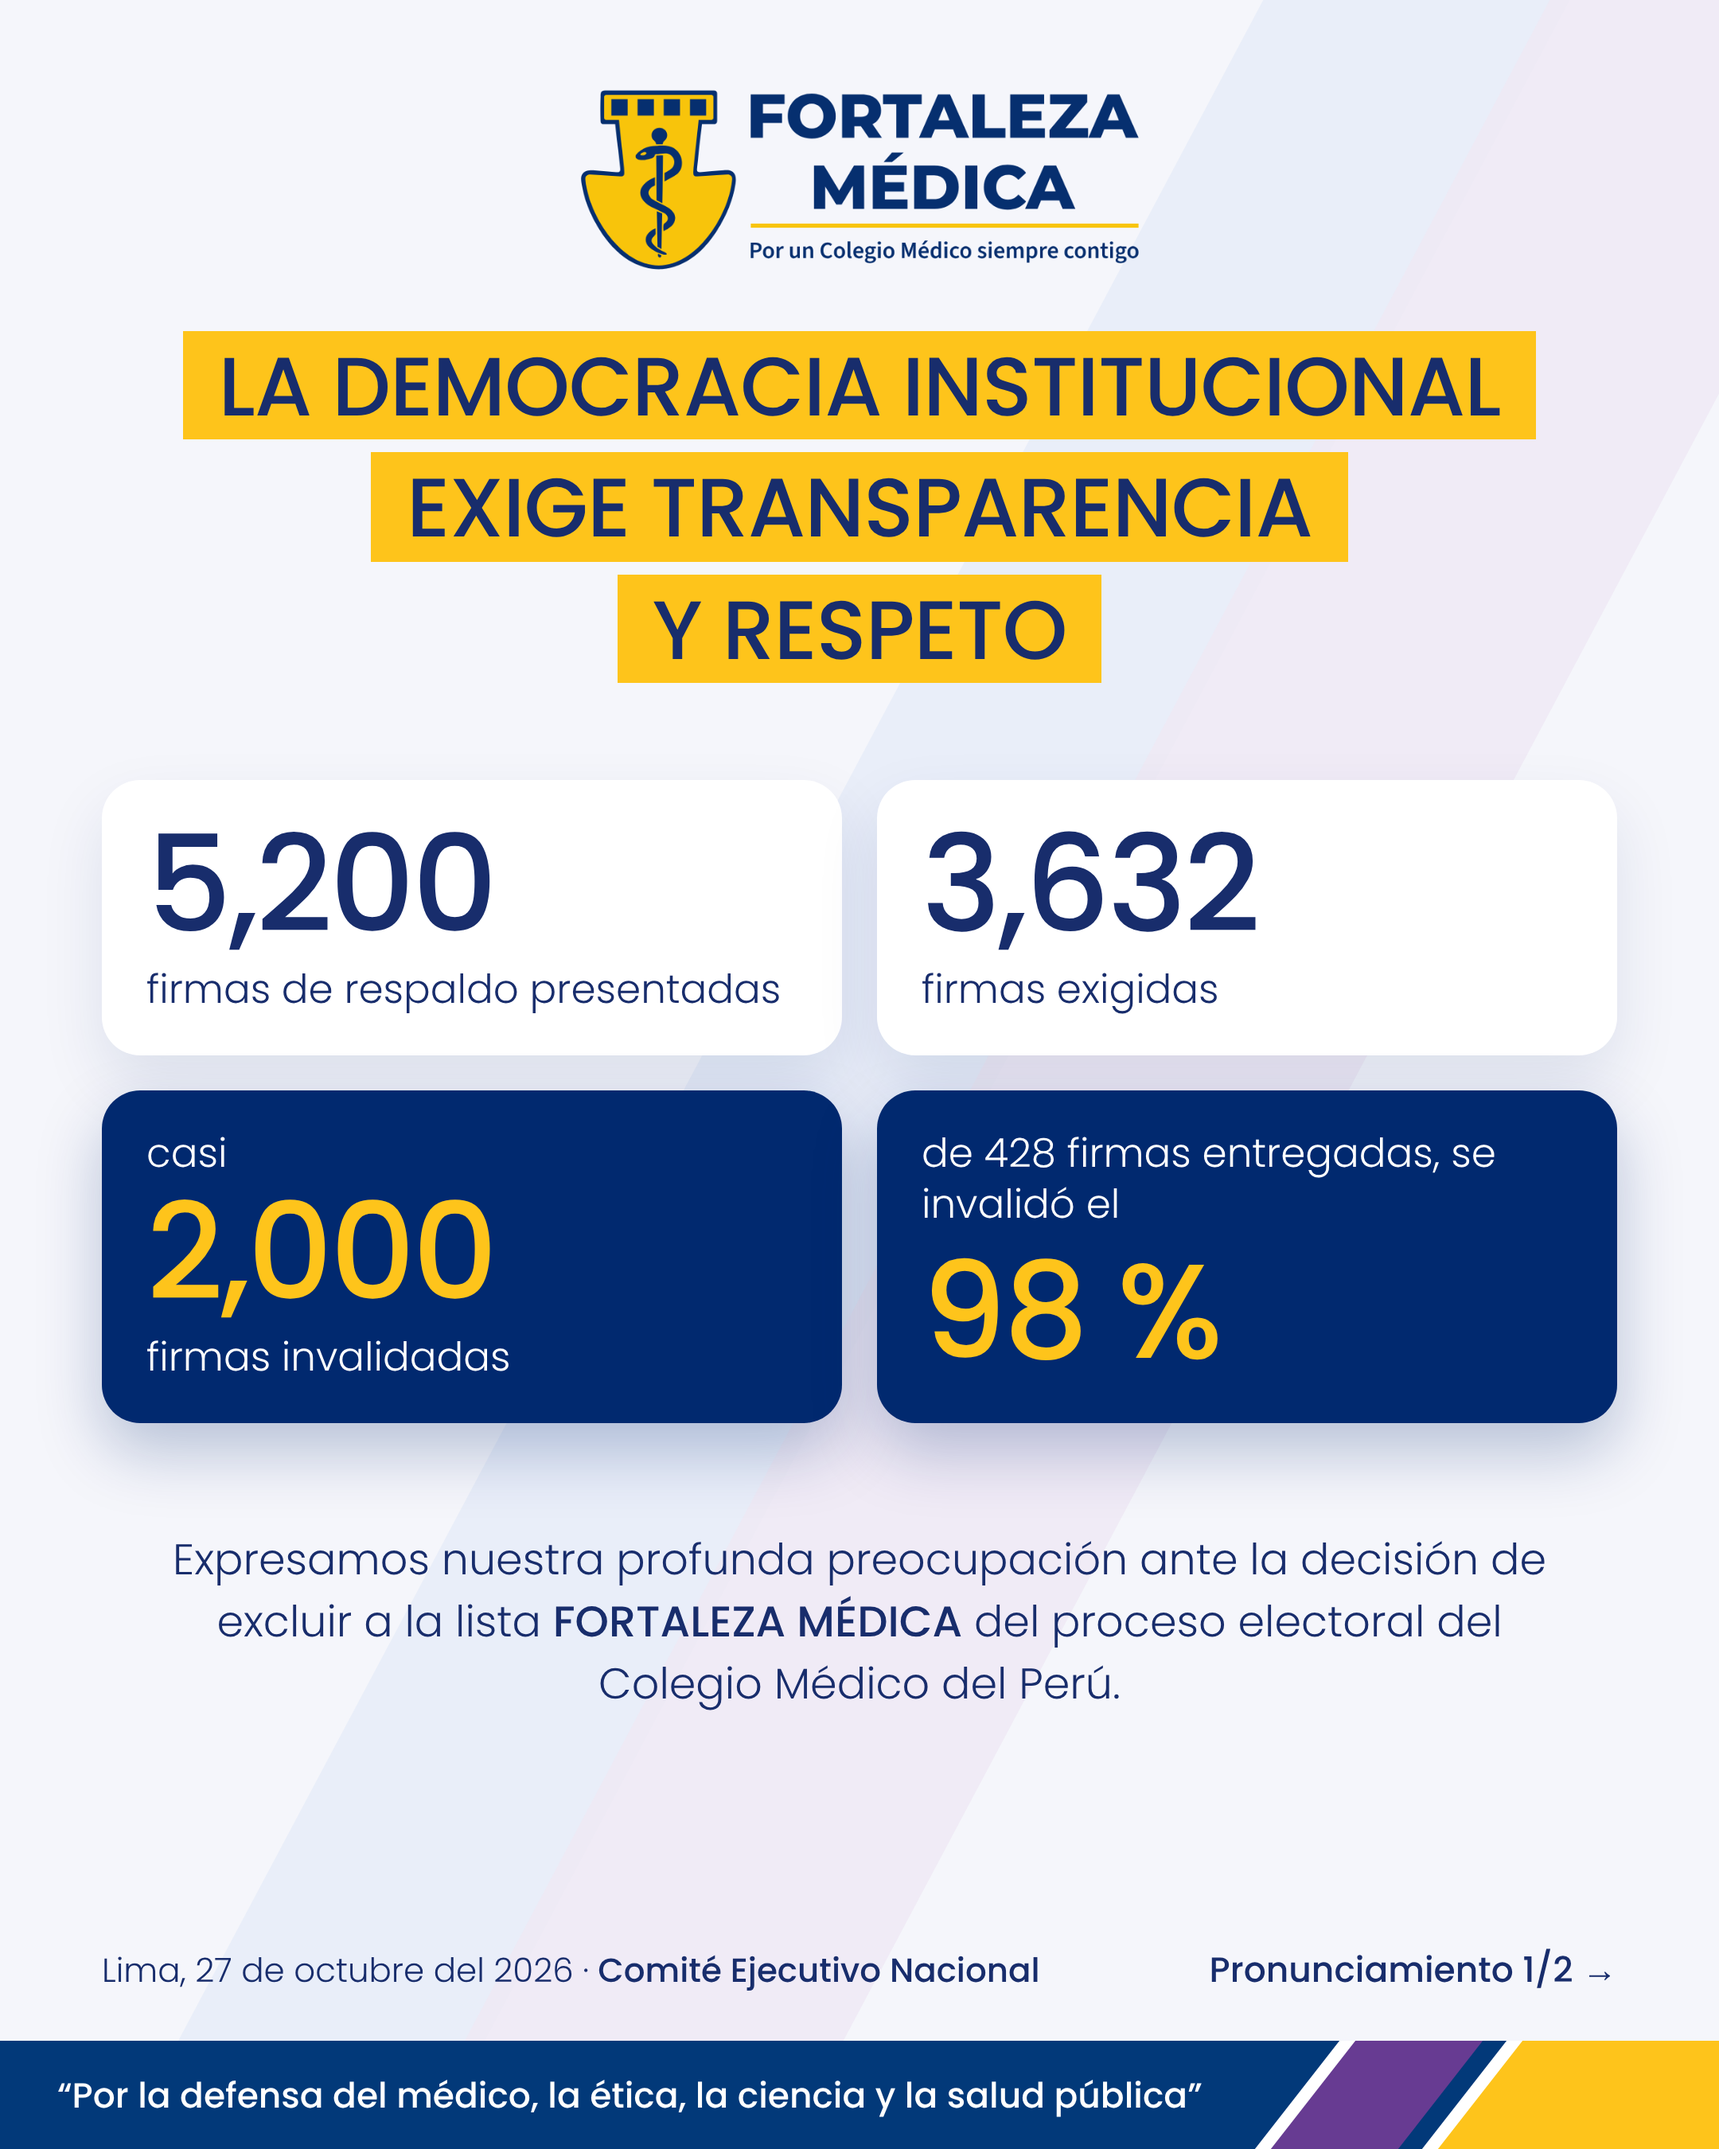
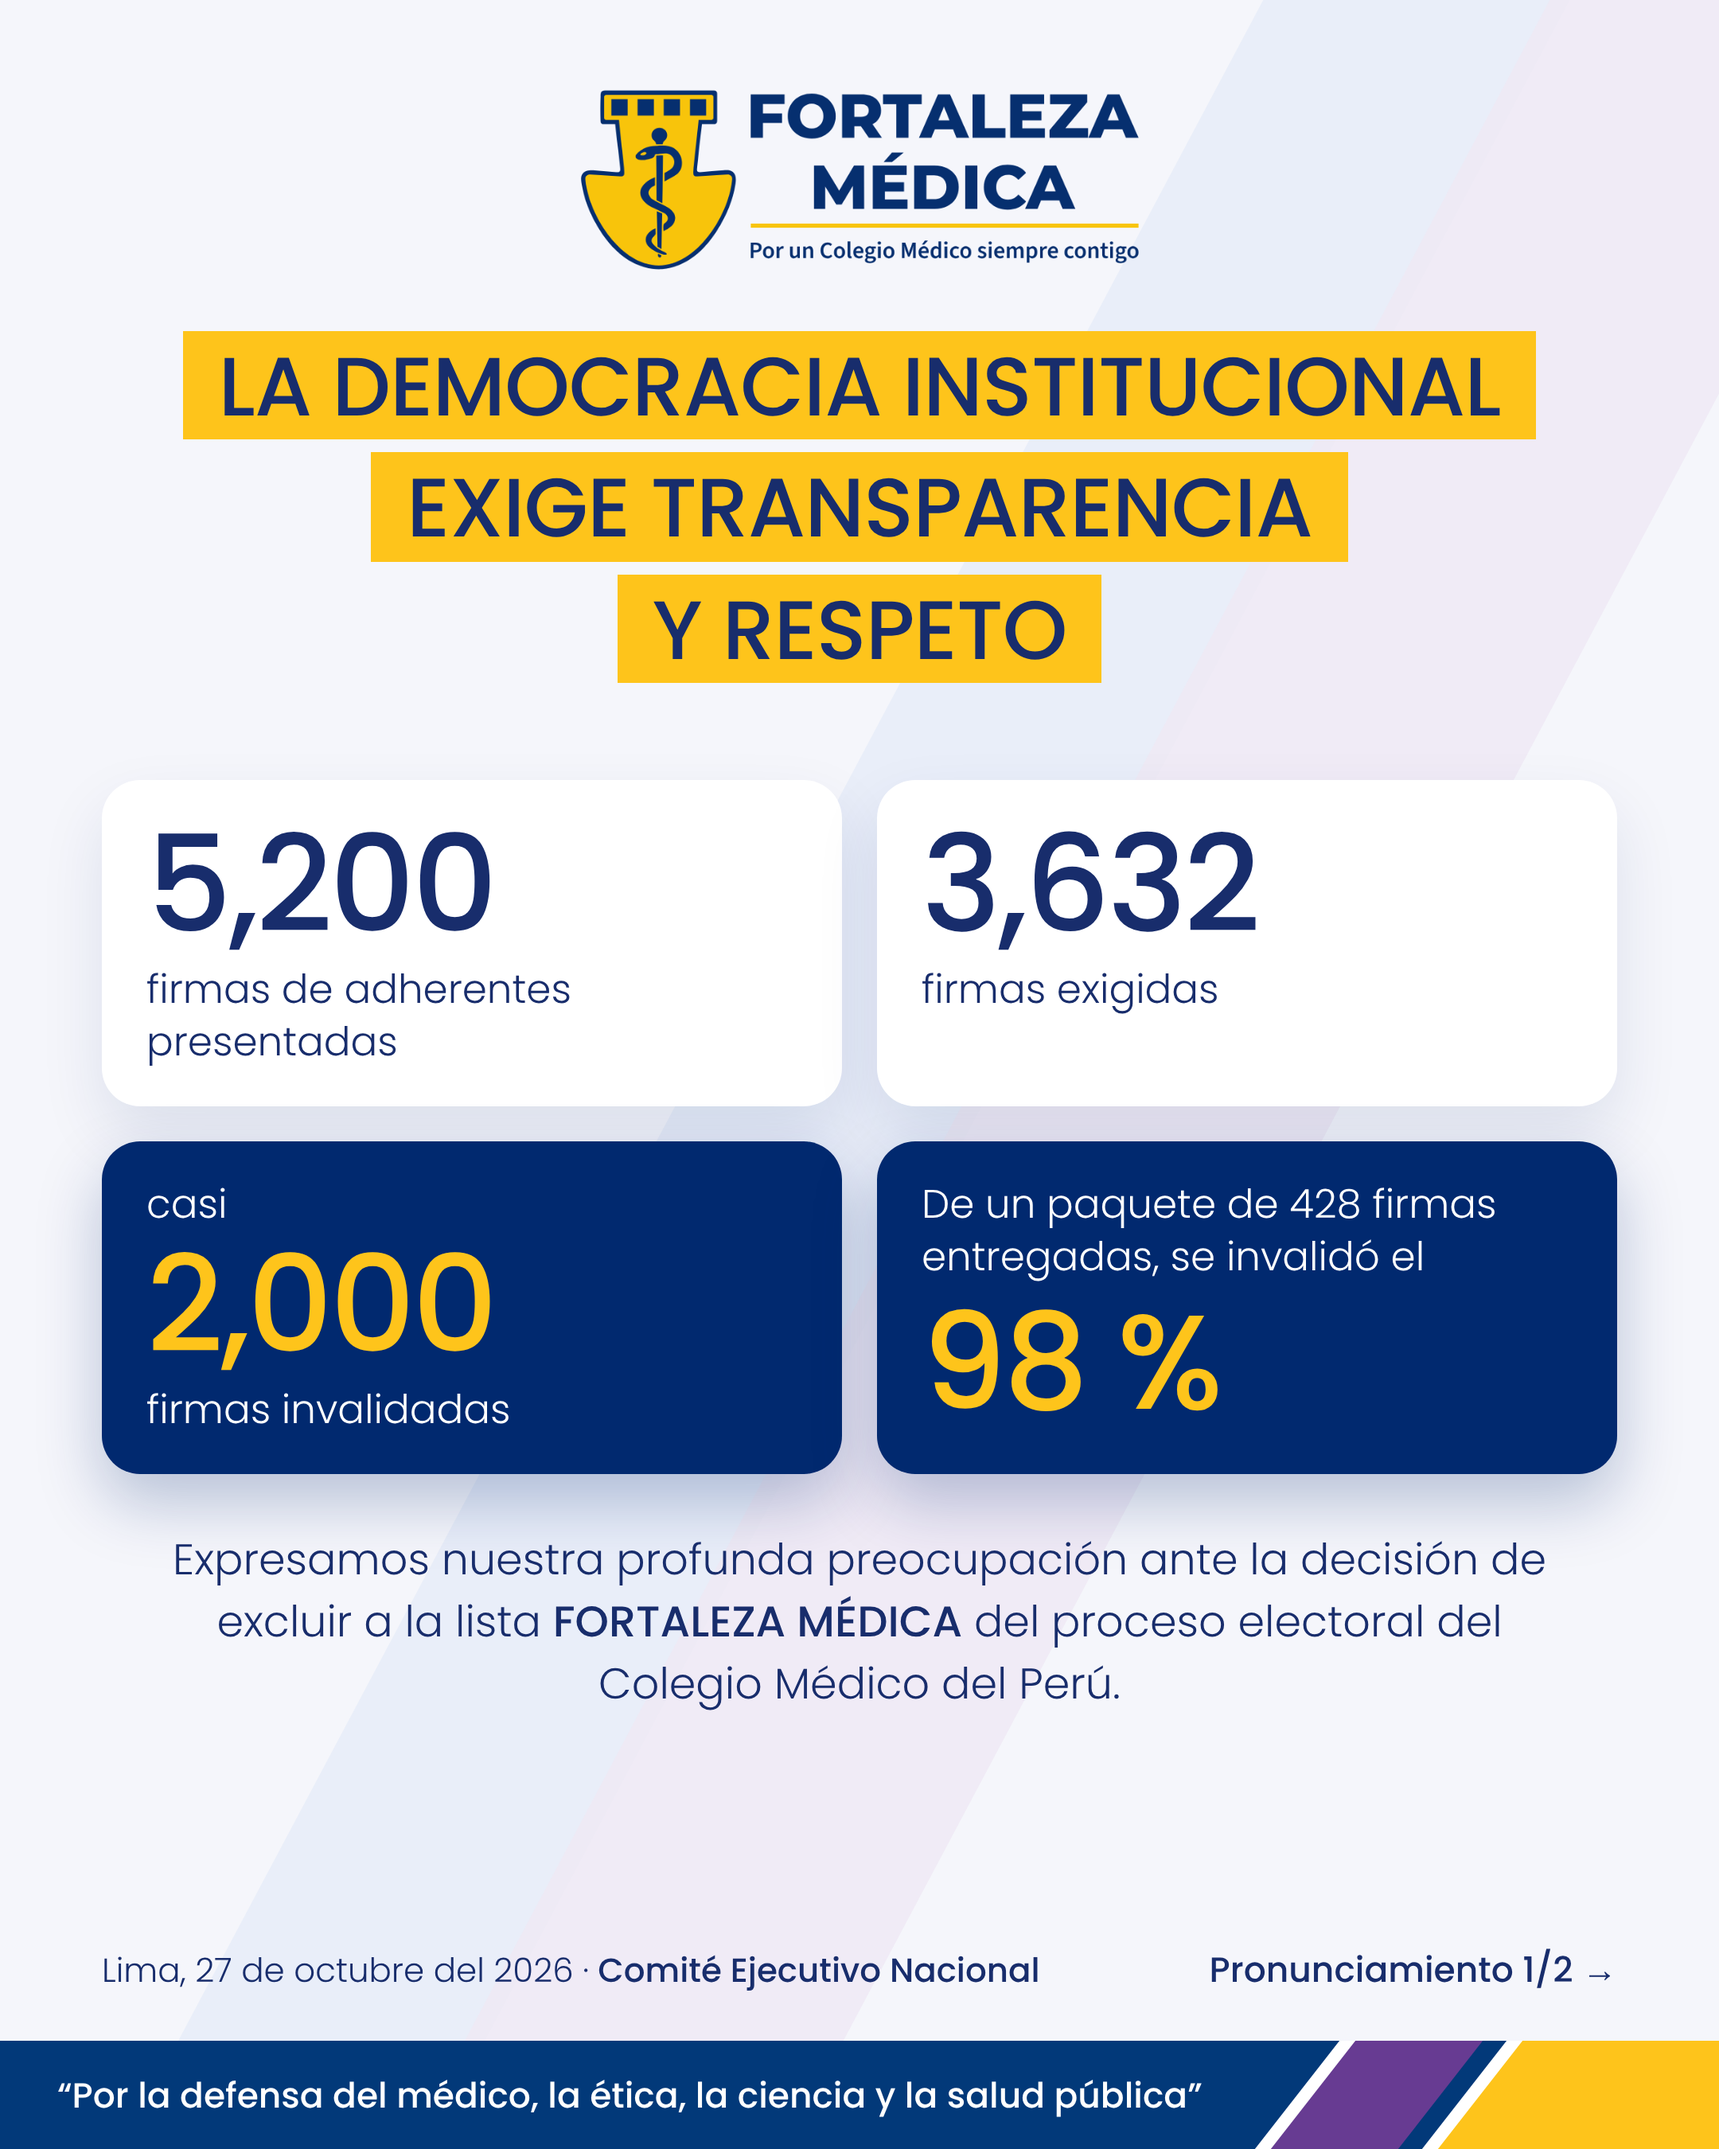
Pronunciamiento: firmas de adherentes y paquete de 428; exporta JPG
Claude-Session: https://claude.ai/code/session_01YW8ZhZsGkYYFyPZK7eZsbt

Changed region(s): [[0.062, 0.4356, 0.9616, 0.7156]]

diff --git a/propuesta_contingencia/fuente_html/piezas/00_Pronunciamiento_1-2_cifras.html b/propuesta_contingencia/fuente_html/piezas/00_Pronunciamiento_1-2_cifras.html
@@ -8,10 +8,10 @@
   <span>La democracia institucional</span><span>exige transparencia</span><span>y respeto</span>
 </div>
 <div class="abs" style="left:64px;right:64px;top:490px;display:grid;grid-template-columns:1fr 1fr;gap:22px">
-  <div class="card stat"><div class="num">5,200</div><div class="lab">firmas de respaldo presentadas</div></div>
+  <div class="card stat"><div class="num">5,200</div><div class="lab">firmas de adherentes presentadas</div></div>
   <div class="card stat"><div class="num">3,632</div><div class="lab">firmas exigidas</div></div>
   <div class="stat neg"><div class="lab" style="margin:0 0 4px">casi</div><div class="num">2,000</div><div class="lab">firmas invalidadas</div></div>
-  <div class="stat neg"><div class="lab" style="margin:0 0 8px">de 428 firmas entregadas, se invalidó el</div><div class="num">98 %</div></div>
+  <div class="stat neg"><div class="lab" style="margin:0 0 8px">De un paquete de 428 firmas entregadas, se invalidó el</div><div class="num">98 %</div></div>
 </div>
 <div class="abs center" style="left:84px;right:84px;top:960px;font-weight:300;font-size:27px;line-height:1.45">
   Expresamos nuestra profunda preocupación ante la decisión de excluir a la lista <b class="m">FORTALEZA MÉDICA</b> del proceso electoral del Colegio Médico del Perú.

diff --git a/propuesta_contingencia/fuente_html/generar.py b/propuesta_contingencia/fuente_html/generar.py
@@ -454,10 +454,10 @@ pieces["00_Pronunciamiento_1-2_cifras"] = ppage(f"""
   <span>La democracia institucional</span><span>exige transparencia</span><span>y respeto</span>
 </div>
 <div class="abs" style="left:64px;right:64px;top:490px;display:grid;grid-template-columns:1fr 1fr;gap:22px">
-  <div class="card stat"><div class="num">5,200</div><div class="lab">firmas de respaldo presentadas</div></div>
+  <div class="card stat"><div class="num">5,200</div><div class="lab">firmas de adherentes presentadas</div></div>
   <div class="card stat"><div class="num">3,632</div><div class="lab">firmas exigidas</div></div>
   <div class="stat neg"><div class="lab" style="margin:0 0 4px">casi</div><div class="num">2,000</div><div class="lab">firmas invalidadas</div></div>
-  <div class="stat neg"><div class="lab" style="margin:0 0 8px">de 428 firmas entregadas, se invalidó el</div><div class="num">98 %</div></div>
+  <div class="stat neg"><div class="lab" style="margin:0 0 8px">De un paquete de 428 firmas entregadas, se invalidó el</div><div class="num">98 %</div></div>
 </div>
 <div class="abs center" style="left:84px;right:84px;top:960px;font-weight:300;font-size:27px;line-height:1.45">
   Expresamos nuestra profunda preocupación ante la decisión de excluir a la lista <b class="m">FORTALEZA MÉDICA</b> del proceso electoral del Colegio Médico del Perú.
